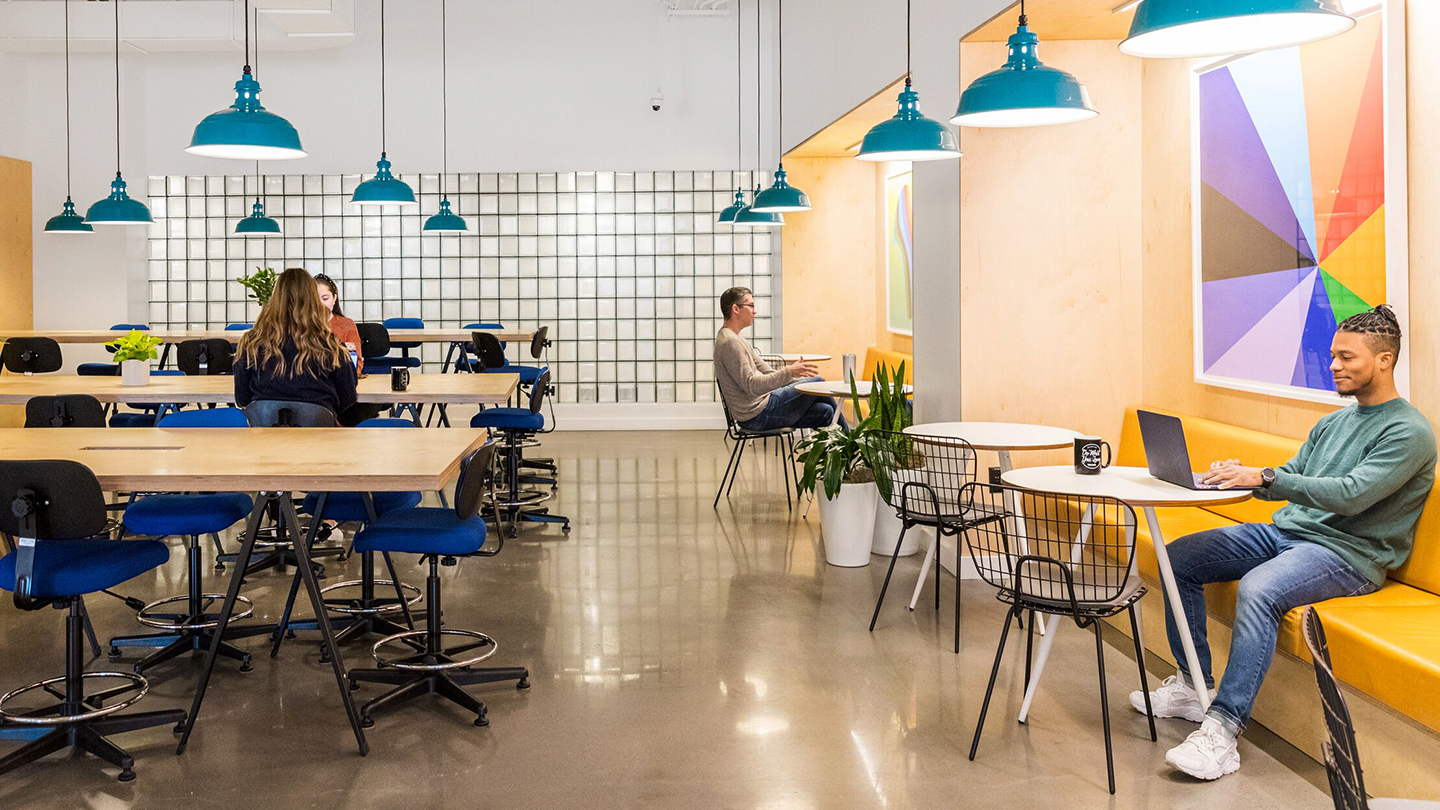
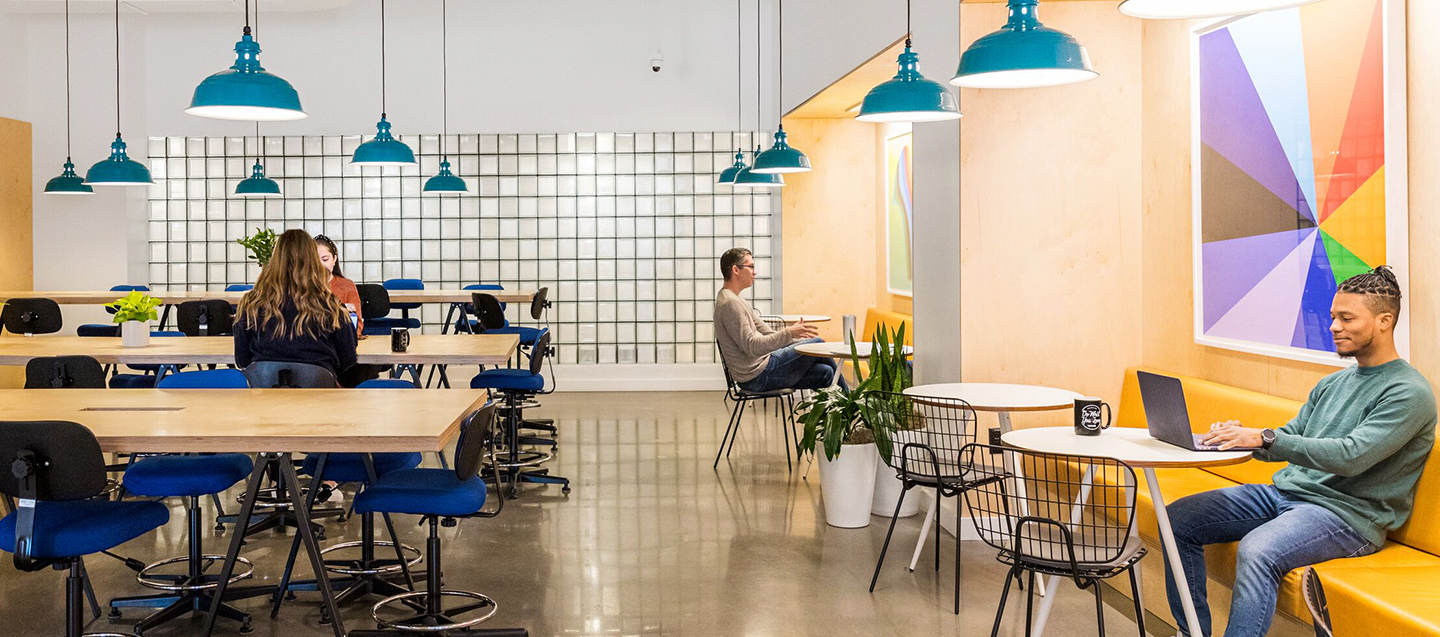
edit img on home page and fix google table

diff --git a/src/views/GoogleTableView.vue b/src/views/GoogleTableView.vue
@@ -85,6 +85,8 @@ export default {
       const course_id = GStore.detail.course_id
       const course_name = GStore.detail.course_name
       const examination = GStore.detail.examination
+      const question_number =
+        GStore.result.data[rowIndex].answers[index].question
       console.log(name)
       console.log(answer)
       console.log(comparison_data)
@@ -96,6 +98,7 @@ export default {
         answer: answer,
         compare_data: comparison_data,
         question: question,
+        question_number: question_number,
         student_id: student_id,
         course_id: course_id,
         course_name: course_name,

diff --git a/src/App.vue b/src/App.vue
@@ -93,7 +93,6 @@ body {
   width: 100%;
   height: 80px;
   background: #04724d;
-  /* margin: 0 0 40px; */
 }
 
 .logo-icon {
@@ -155,7 +154,6 @@ body {
 }
 
 .dropdown-item {
-  padding: 10px 20px;
   cursor: pointer;
   list-style: none;
   padding: 15px 40px;

diff --git a/src/views/HomeView.vue b/src/views/HomeView.vue
@@ -82,10 +82,6 @@ export default {
   z-index: 2;
 }
 
-#title {
-  font-weight: bold;
-}
-
 .feature {
   padding: 30px;
   display: flex;
